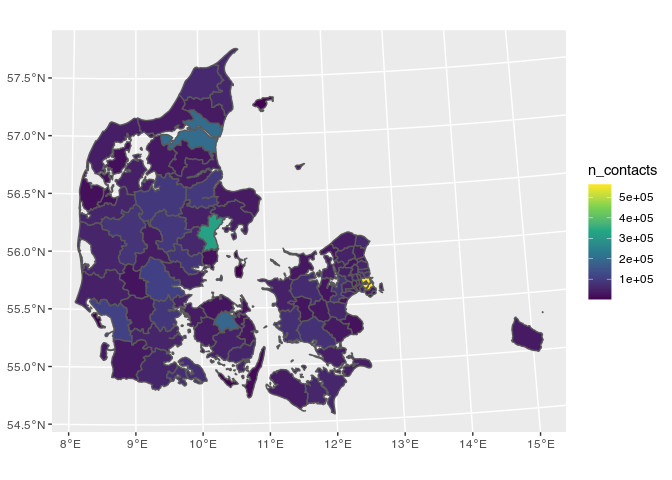
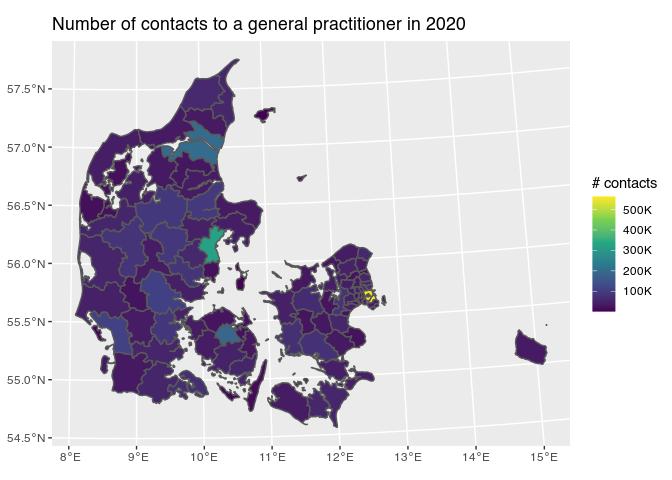
fix figure labels geospatial

diff --git a/data/DK-geographical-regions/README.md b/data/DK-geographical-regions/README.md
@@ -31,7 +31,8 @@ sf_municipality <- read_sf("SHAPEFILE-DK/", layer = "KOMMUNE")
 ```
 
 This returns a data frame (tibble) with some metadata. Here, we are
-mainly interested in the columns `KOMNAVN` (name) and `geometry`.
+mainly interested in the columns `KOMNAVN` (name of municipality) and
+`geometry`.
 
 Let’s draw.
 
@@ -96,7 +97,9 @@ gp_contacts_w_sf <- left_join(sf_municipality, gp_contacts, by = c("KOMNAVN" = "
 ggplot(gp_contacts_w_sf, aes(fill = n_contacts)) + 
     geom_sf(aes(fill = n_contacts)) +
     coord_sf() +
-    scale_fill_viridis_c()
+    scale_fill_viridis_c(label = scales::label_number_si()) + 
+    labs(title = "Number of contacts to a general practitioner in 2020",
+         fill = "# contacts")
 ```
 
 ![](figs/unnamed-chunk-6-1.png)<!-- -->
